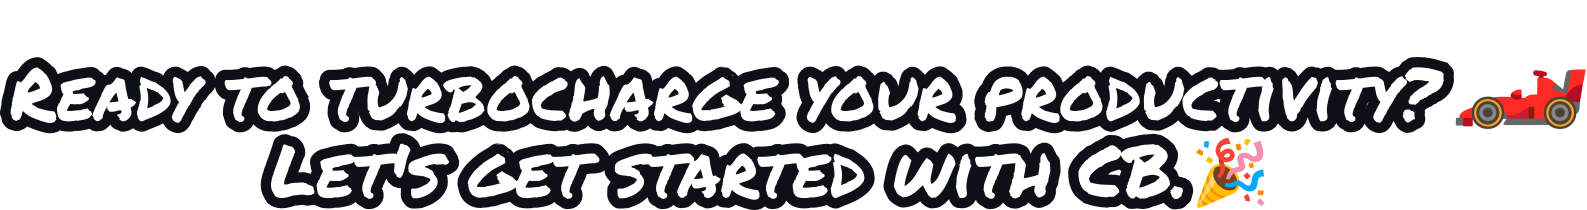
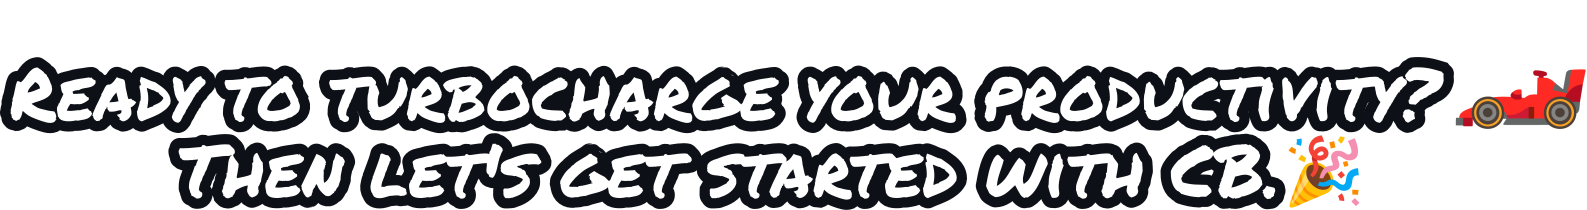
Remove unused asset, simplify readme blurb [skip ci]

Changed region(s): [[0.0926, 0.6286, 0.8645, 1.0]]

diff --git a/README.md b/README.md
@@ -4,9 +4,9 @@
 
 <img src="documentation/readme-assets/ProductivityTools.png" alt="Introducing one of the most powerful productivity tools ever." />
 
-Remember _anything, anytime, anywhere_ at the mere press of a button, like having a new, **𝚛𝚒𝚍𝚘𝚗𝚔𝚞𝚕𝚒𝚌𝚒𝚘𝚞𝚜𝚕𝚢** smart second brain always by your side. In no time, you'll be reclined back on a warm sunny beach in the Caribbean sipping a silky and succulent papaya smoothie with the love of your life snuggling by your side all while you watch bottlenose dolphins leaping from the bright shimmering waves of the soft blue water in the distance. 
+The Clipboard Project (or CB) is an advanced yet so-easy-to-use clipboard manager that's filled with tons of <img src="documentation/readme-assets/eyecandy.svg" height="16px" alt="eye candy"/>.
 
-Ok, so maybe that last part won't actually happen. But you get the idea:
+You'll be able to remember _anything, anytime, anywhere_ at the mere press of a button, like having a new, **𝚛𝚒𝚍𝚘𝚗𝚔𝚞𝚕𝚒𝚌𝚒𝚘𝚞𝚜𝚕𝚢** smart second brain always by your side.
 
 <p align="center"> 
     <img src="documentation/readme-assets/ClipboardMakesYourLifeEasy.png" alt="CB makes your life easy." />
@@ -16,14 +16,14 @@ Just let the features speak for themselves.
 
 - Copy text, files, directories, pipes, _anything_,
 - Get an _infinite_ number of temporary or persistent clipboards,
-- Harness the power of regex on everything you copy,
+- Harness the power of **full-fat regex** on everything you copy,
 - Seamlessly connect with your [desktop clipboard system](https://github.com/Slackadays/Clipboard/wiki/GUI-Clipboard-Compat),
 - Use your favorite languages like español, português, or Türkçe,
-- Easily script _anything_ to automate your workflows,
-- Customize the <img src="documentation/readme-assets/eyecandy.svg" height="16px" alt="eye candy"/> to your complete viewing pleasure,
+- Easily script _anything_ to automate your workflows in a cinch,
+- Customize that <img src="documentation/readme-assets/eyecandy.svg" height="16px" alt="eye candy"/> to your complete viewing pleasure,
 - And tons more!
 
-Oh, and did we also mention that CB is 100% free and open source? Yes, that too!
+Oh, and did we also mention that it's 100 percent free and open source? Yes, that too!
 
 <br>
 
@@ -46,7 +46,7 @@ Oh, and did we also mention that CB is 100% free and open source? Yes, that too!
 <br>
 
 <p align="center">
-    <img src="documentation/readme-assets/GetStartedBelow.png" alt="Let's get started with CB below." height="100px" />
+    <img src="documentation/readme-assets/GetStartedBelow.png" alt="Ready to turbocharge your productivity? Then let's get started with CB." height="100px" />
 </p>
 
 <br>
@@ -178,7 +178,7 @@ $ cb
 
 ### <img src="documentation/readme-assets/TheBasics.png" alt="The Basics" height=25px />
 
-Add a number to the end of your action to choose which temporary clipboard you want to use (the default is 0), or also add `_` to use a persistent clipboard. 
+Add a number to the end of your action to choose which temporary clipboard you want to use (the default is 0). Or, add `_` to use a persistent clipboard instead.
 
 <details><summary> &ensp; <b>Copy</b> &emsp; <code>cb [--](copy|cp)[(num)|_(id)] (file) [files]</code> or <code>(something) | cb [[--](copy|cp)][(num)|_(id)]</code></summary>
 
